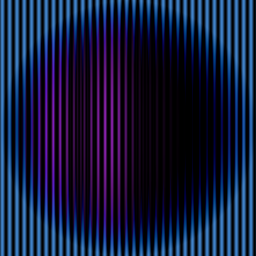
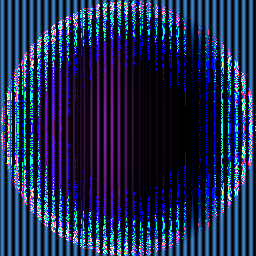
tries to fix the ff-add bug

Changed region(s): [[0.0, 0.0, 1.0, 1.0], [0.625, 0.25, 0.6562, 0.2812]]

diff --git a/ff-add.c b/ff-add.c
@@ -57,7 +57,6 @@ int main(int argc, char **argv)
 
 	/* Read B file content */
 	b = malloc(b_size.x * b_size.y * sizeof(struct Rgba));
-	//ret = ff_read_content(b, b_size);
 	ret = ff_read_rgba_content(b, b_size);
 	switch (ret) {
 	case MEMERR:
@@ -83,8 +82,8 @@ int main(int argc, char **argv)
 		return ret;
 	}
 
-	FOR_X_Y(a_size.x, a_size.y,
-		add(a[a_size.x*y + x], b[a_size.x*y + x], &result);
+	FOR_POS(a_size,
+		add(a[pos], b[pos], &result);
 		ret = ff_print_rgba(result);
 		if (ff_err(ret) != 0) {
 			free(a);
@@ -104,10 +103,12 @@ add(Rgba a,        // Source A
     Rgba b,        // Source B
     Rgba *c)       // Target C
 {
-	double r_val = (double)(a.r)/UINT16_MAX + (double)(b.r)/UINT16_MAX;
-	double g_val = (double)(a.g)/UINT16_MAX + (double)(b.g)/UINT16_MAX;
-	double b_val = (double)(a.b)/UINT16_MAX + (double)(b.b)/UINT16_MAX;
-	double a_val = (double)(a.a)/UINT16_MAX + (double)(b.a)/UINT16_MAX;
+	RgbaD ad = ff_i2d(a);
+	RgbaD bd = ff_i2d(b);
+	double r_val = ad.r + bd.r;
+	double g_val = ad.g + bd.g;
+	double b_val = ad.b + bd.b;
+	double a_val = ad.a + bd.a;
 	c->r = ff_clamp(r_val) * UINT16_MAX;
 	c->g = ff_clamp(g_val) * UINT16_MAX;
 	c->b = ff_clamp(b_val) * UINT16_MAX;

diff --git a/tools.c b/tools.c
@@ -130,13 +130,13 @@ ff_read_rgba_content(Rgba *target, Coords size)
 		return READERR;
 	}
 
-	FOR_X_Y(size.x, size.y,
+	FOR_POS(size,
 		Rgba rgba;
-		rgba.r = buf[size.x*y + x*4*sizeof(uint16_t) + 0*sizeof(uint16_t)];
-		rgba.g = buf[size.x*y + x*4*sizeof(uint16_t) + 1*sizeof(uint16_t)];
-		rgba.b = buf[size.x*y + x*4*sizeof(uint16_t) + 2*sizeof(uint16_t)];
-		rgba.a = buf[size.x*y + x*4*sizeof(uint16_t) + 3*sizeof(uint16_t)];
-		target[size.x*y + x] = rgba;
+		rgba.r = buf[pos*4 + 0];
+		rgba.g = buf[pos*4 + 1];
+		rgba.b = buf[pos*4 + 2];
+		rgba.a = buf[pos*4 + 3];
+		target[pos] = rgba;
 	)
 	
 	free(buf);
@@ -201,10 +201,10 @@ RgbaD
 ff_i2d(Rgba rgba)
 {
 	RgbaD rtn;
-	rtn.r = rgba.r / UINT16_MAX;
-	rtn.g = rgba.g / UINT16_MAX;
-	rtn.b = rgba.b / UINT16_MAX;
-	rtn.a = rgba.a / UINT16_MAX;
+	rtn.r = (double)rgba.r / UINT16_MAX;
+	rtn.g = (double)rgba.g / UINT16_MAX;
+	rtn.b = (double)rgba.b / UINT16_MAX;
+	rtn.a = (double)rgba.a / UINT16_MAX;
 	return rtn;
 }
 

diff --git a/tools.h b/tools.h
@@ -62,6 +62,8 @@ int ff_read_rgba_content(Rgba *target, Coords size);
 
 #define FOR_X_Y(width, height, body) for(uint32_t y=0; y<height; y++) for(uint32_t x=0; x<width; x++) {body}
 
+#define FOR_POS(size, body) for(uint32_t pos=0; pos<((size).x)*((size).y); pos++) {body}
+
 Rgba ff_coords(uint16_t *origin, Coords pos);
 uint16_t *ff_coords_ptr(uint16_t *origin, Coords pos);
 Coords ff_get_rel_coords(Coords pos,
